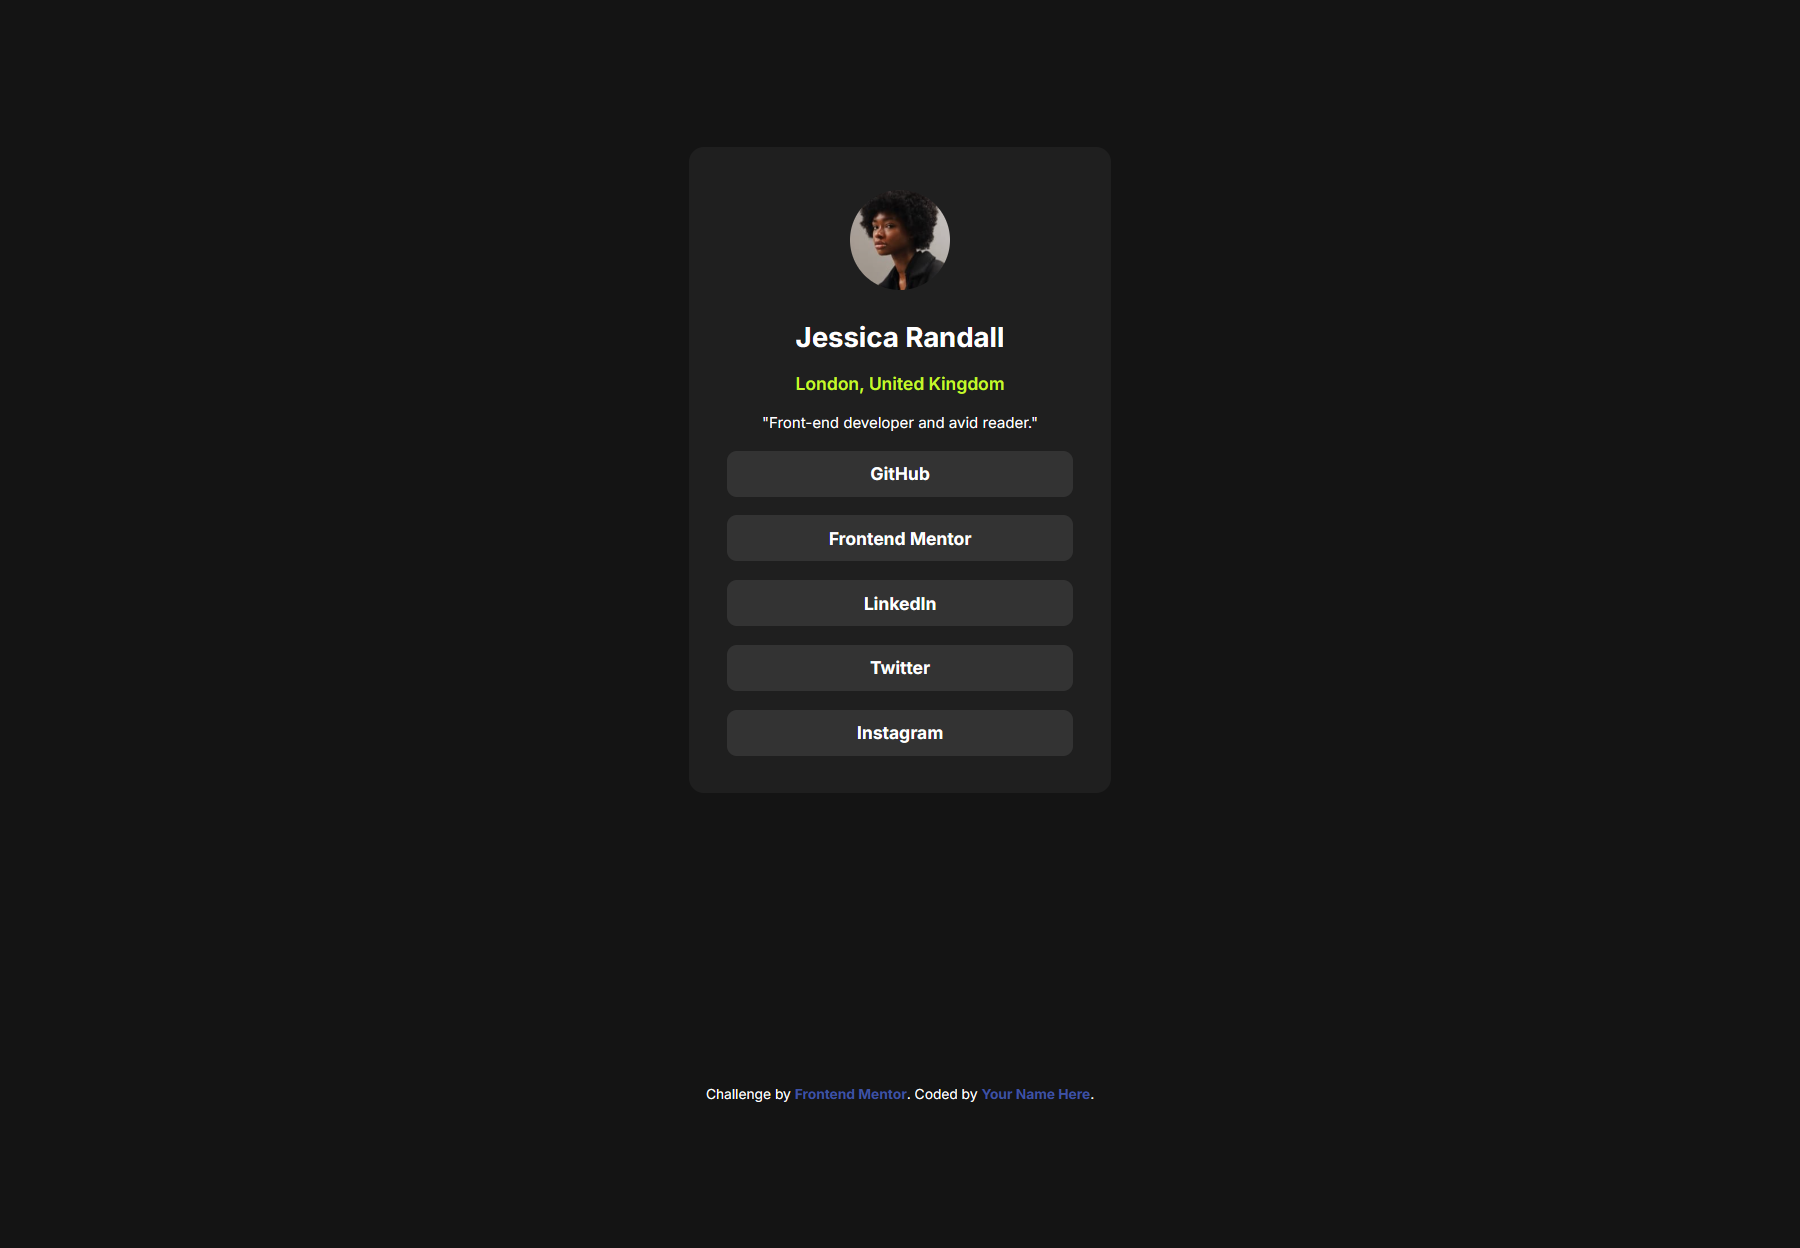
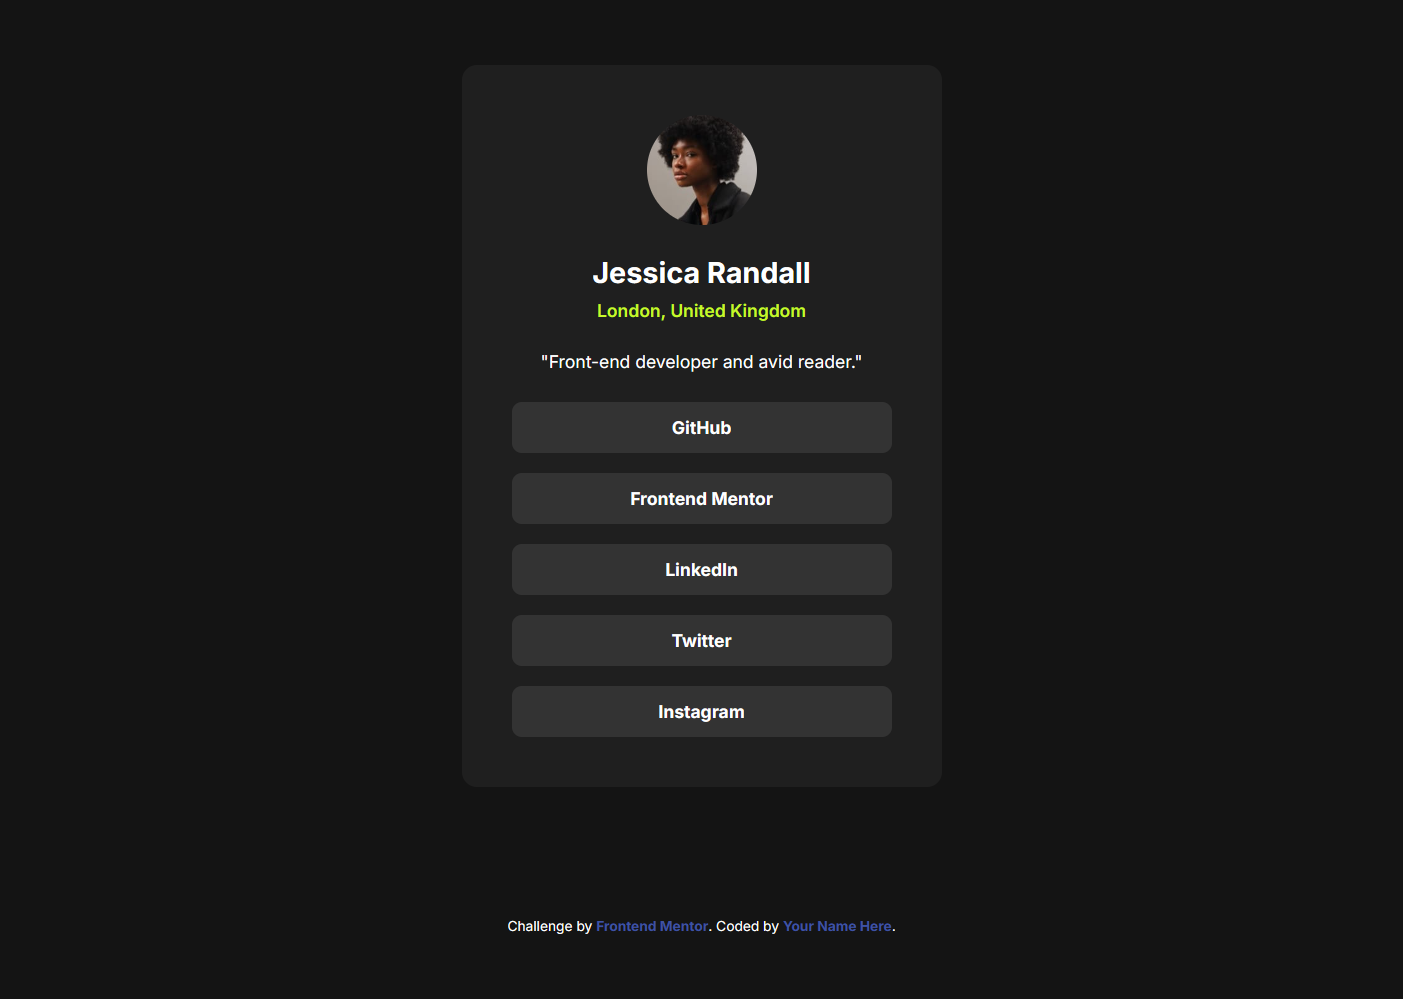
refine layout spacing and accessibility states

Changed region(s): [[0.3678, 0.4034, 0.6436, 0.7447], [0.3984, 0.1241, 0.613, 0.4344], [0.3678, 0.8689, 0.6436, 0.9309]]

diff --git a/style.css b/style.css
@@ -4,10 +4,6 @@
     --color-grey-700: hsl(0, 0%, 20%);
     --color-grey-800: hsl(0, 0%, 12%);
     --color-grey-900: hsl(0, 0%, 8%);
-    /* --font-weight-normal: 400;
-    --font-weight-medium: 600;
-    --font-weight-bold: 700;
-    --font-size-base: 14px; */
 }
 
 * {
@@ -37,28 +33,32 @@ a {
 }
 
 h1 {
-    font-size: 22px;
+    font-size: 23px;
 }
 
 .card {
-    padding: 30px;
+    padding: 40px;
     display: flex;
     flex-direction: column;
-    justify-content: center;
     align-items: center;
-    gap: 15px;
+    gap: 24px;
     background-color: var(--color-grey-800);
-    max-width: 337.5px;
+    max-width: 384px;
     width: 90%;
-    height: auto;
     border-radius: 12px;
 }
 
 .card img {
-    width: 80px;
-    height: 80px;
+    width: 88px;
+    height: 88px;
     border-radius: 50%;
-    margin: 5px 0;
+}
+
+.profile-header {
+    text-align: center;
+    display: flex;
+    flex-direction: column;
+    gap: 8px;
 }
 
 .location {
@@ -67,11 +67,16 @@ h1 {
     color: var(--color-green);
 }
 
+.bio {
+    font-size: 14px;
+    text-align: center;
+}
+
 .links {
     list-style: none;
     display: flex;
     flex-direction: column;
-    gap: 15px;
+    gap: 16px;
     width: 100%;
 }
 
@@ -81,24 +86,44 @@ h1 {
     align-items: center;
     background-color: var(--color-grey-700);
     border-radius: 8px;
-    transition: all 0.3s ease;
+    transition: all 0.2s ease;
 }
 
-.link:hover {
+/* Hover and Focus states for accessibility */
+.link:hover,
+.link:focus-within {
     background-color: var(--color-green);
     cursor: pointer;
 }
 
-.link a {
-    display: block;
-    padding: 10px;
-    width: 100%;
-    text-align: center;
-    transition: all 0.3s ease;
+/* Active state */
+.link:active {
+    background-color: var(--color-white);
+    transform: scale(0.98);
 }
 
-.link:hover a {
+.link a {
+    display: block;
+    padding: 12px;
+    width: 100%;
+    text-align: center;
+    transition: all 0.2s ease;
+    outline: none;
+}
+
+.link:hover a,
+.link:focus-within a {
     color: var(--color-grey-900);
+}
+
+.link:active a {
+    color: var(--color-grey-900);
+}
+
+/* Focus indicator for keyboard navigation */
+.link:focus-within {
+    outline: 2px solid var(--color-white);
+    outline-offset: 4px;
 }
 
 .attribution {

diff --git a/index.html b/index.html
@@ -17,12 +17,12 @@
 <body>
 
     <div class="card">
-        <div>
-            <img src="assets/images/avatar-jessica.jpeg" alt="avatar">
+        <img src="assets/images/avatar-jessica.jpeg" alt="Jessica Randall's avatar">
+        <div class="profile-header">
+            <h1>Jessica Randall</h1>
+            <p class="location">London, United Kingdom</p>
         </div>
-        <h1>Jessica Randall</h1>
-        <p class="location">London, United Kingdom</p>
-        <p>"Front-end developer and avid reader."</p>
+        <p class="bio">"Front-end developer and avid reader."</p>
         <ul class="links">
             <li class="link"><a href="#">GitHub</a></li>
             <li class="link"><a href="#">Frontend Mentor</a></li>
